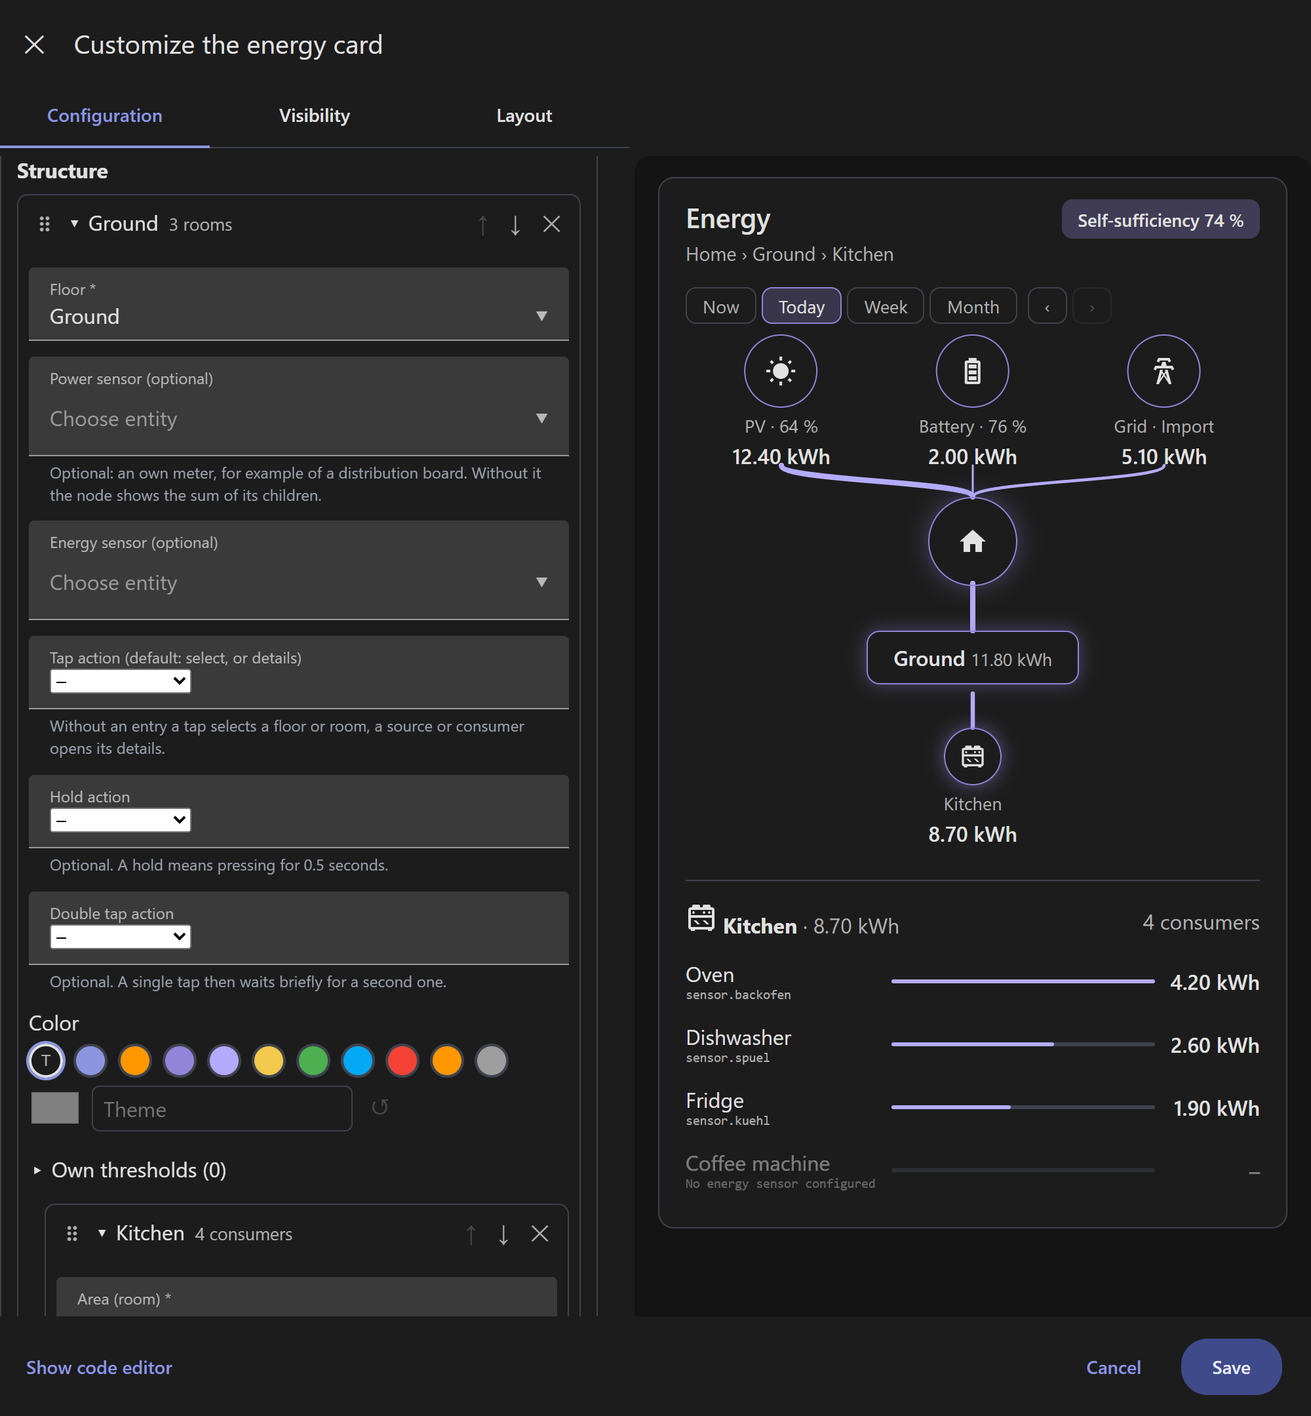
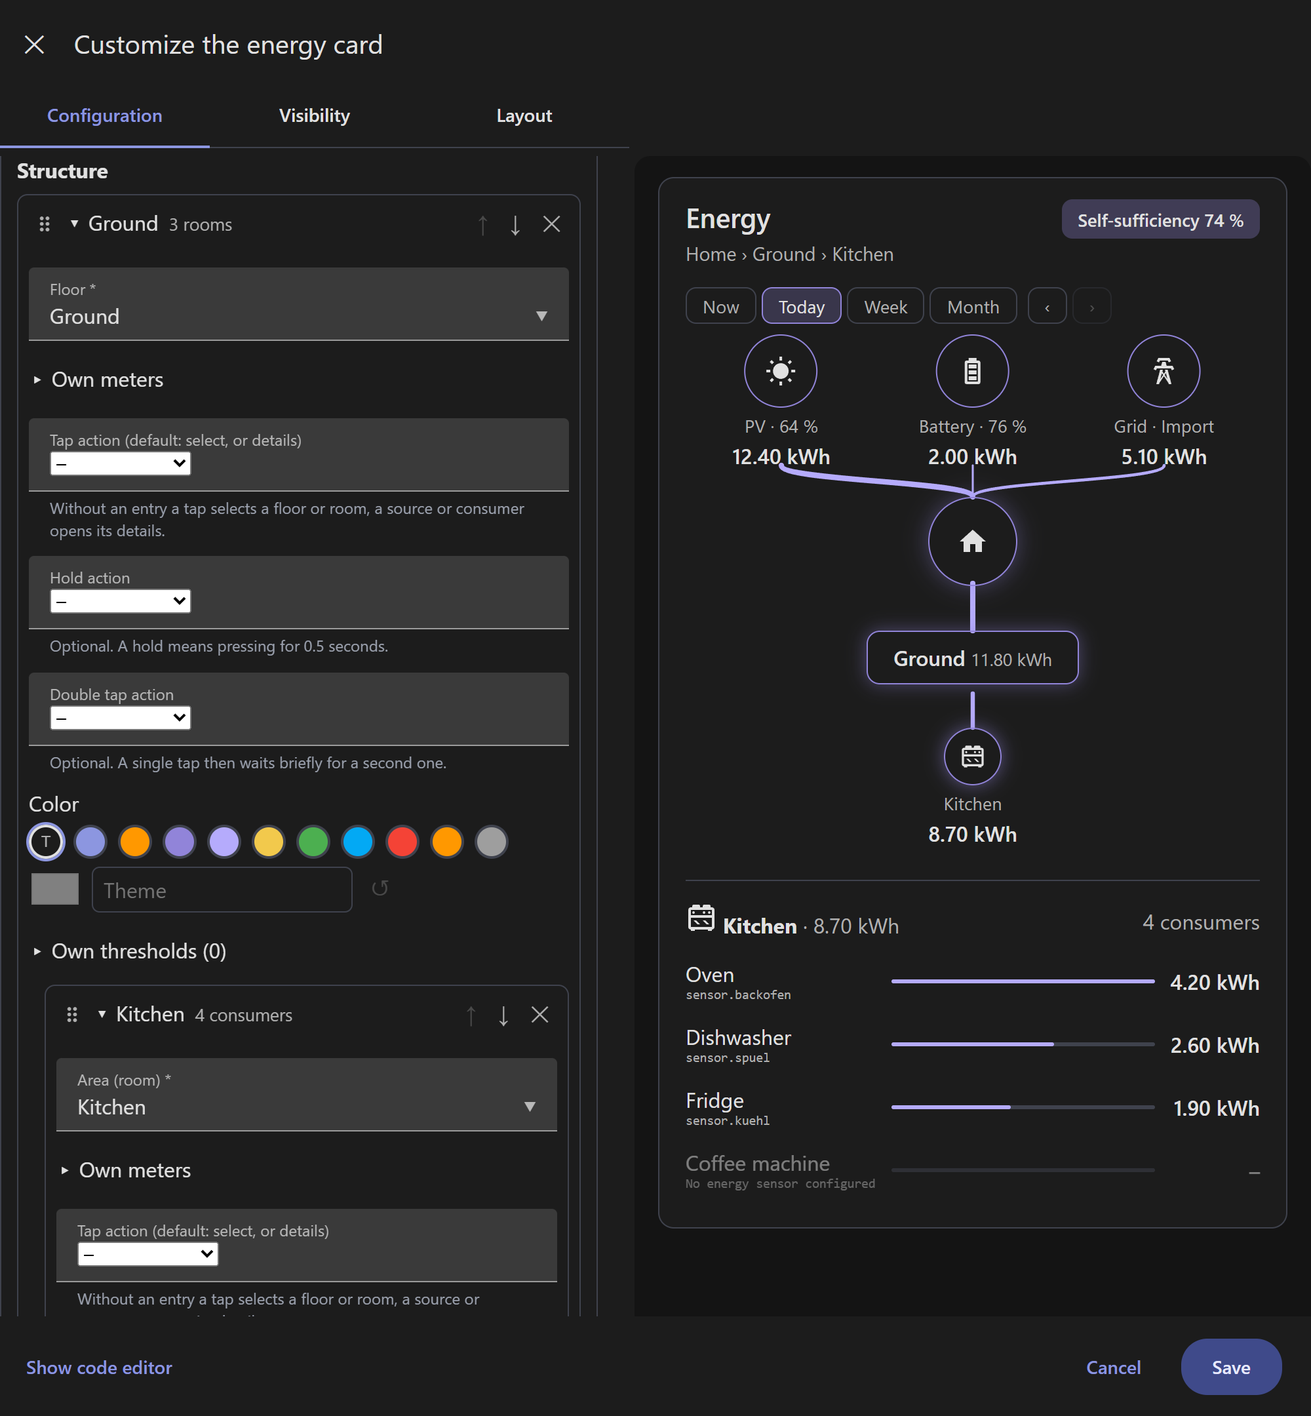
Editor: collapsible sections for sensors, switch and own meters

Changed region(s): [[0.0, 0.2481, 0.434, 0.9306]]

diff --git a/src/editor/card-editor.ts b/src/editor/card-editor.ts
@@ -21,6 +21,9 @@ import {
   COLOR_KEYS,
   THRESHOLD,
   PALETTE,
+  CONSUMER_SENSORS,
+  CONSUMER_SWITCH,
+  METER_PATHS,
   consumerFields,
   ENERGY_MODE,
   costsNeedGridCounter,
@@ -461,6 +464,25 @@ export class DetailedEnergyCardEditor extends LitElement {
       ${colors.map((f) => this._colorRow(ptr, f, getPath(obj, f.path)))}`;
   }
 
+  /** Collapsible group of fields; closed until the user opens it. */
+  private _section(key: string, title: string, body: TemplateResult): TemplateResult {
+    const open = this._open.has(key);
+    return html`<div class="own-thresholds">
+      <button class="title" aria-expanded=${open ? "true" : "false"} @click=${() => this._toggleOpen(key)}>
+        ${open ? "▾" : "▸"} ${title}
+      </button>
+      ${open ? body : nothing}
+    </div>`;
+  }
+
+  /** The form of an element with the meter sensors in a collapsible section (floors, rooms). */
+  private _meterForm(ptr: Pointer, fields: Field[]): TemplateResult {
+    const rest = fields.filter((f) => !METER_PATHS.includes(f.path));
+    const meters = fields.filter((f) => METER_PATHS.includes(f.path));
+    const head = rest.slice(0, 1);
+    return html`${this._form(ptr, head)}${this._section(`${ptr.join(".")}.meters`, this._tr("section_meters"), this._form(ptr, meters))}${this._form(ptr, rest.slice(1))}`;
+  }
+
   /** Color picker + hex field + reset (an empty value falls back to the HA theme). */
   private _colorRow(ptr: Pointer, f: Field, value: unknown): TemplateResult {
     const text = typeof value === "string" ? value : "";
@@ -709,10 +731,13 @@ export class DetailedEnergyCardEditor extends LitElement {
       <h3>${this._tr("section_consumers", consumers.length)}</h3>
       ${consumers.map((c: { entity?: string; energy_entity?: string }, i: number) => {
         const ptr: Pointer = [...roomPtr, "consumers", i];
+        const fields = consumerFields(consumerEntitiesExcept(this._config, ptr));
+        const pick = (paths: string[]) => fields.filter((f) => paths.includes(f.path));
+        const key = ptr.join(".");
         return html`<div class="item" @dragover=${(e: DragEvent) => this._onOver(e, [...roomPtr, "consumers"])} @drop=${(e: DragEvent) => this._onDrop(e, [...roomPtr, "consumers"], i)}>
           <div class="head">
             ${this._handle([...roomPtr, "consumers"], i)}
-            <div class="title" style="flex:1">${this._form(ptr, consumerFields(consumerEntitiesExcept(this._config, ptr)))}</div>
+            <div class="title" style="flex:1">${this._form(ptr, fields.filter((f) => f.path === "name"))}</div>
             <button class="icon" title=${this._tr("move_up")} aria-label=${this._tr("move_up")} ?disabled=${i === 0}
               @click=${() => this._update([...roomPtr, "consumers"], (l) => moveItem(l, i, -1))}>↑</button>
             <button class="icon" title=${this._tr("move_down")} aria-label=${this._tr("move_down")} ?disabled=${i === consumers.length - 1}
@@ -720,6 +745,9 @@ export class DetailedEnergyCardEditor extends LitElement {
             <button class="icon" title=${this._tr("remove")} aria-label=${this._tr("remove")}
               @click=${() => this._update([...roomPtr, "consumers"], (l) => removeItem(l, i))}>✕</button>
           </div>
+          ${this._section(`${key}.sensors`, this._tr("section_sensors"), this._form(ptr, pick(CONSUMER_SENSORS)))}
+          ${this._section(`${key}.switch`, this._tr("section_switch"), this._form(ptr, pick(CONSUMER_SWITCH)))}
+          ${this._form(ptr, fields.filter((f) => ![...CONSUMER_SENSORS, ...CONSUMER_SWITCH, "name"].includes(f.path)))}
           ${!c?.entity && !c?.energy_entity ? html`<div class="warn">⚠ ${this._tr("consumer_no_sensor")}</div>` : nothing}
           ${this._elementThresholds(ptr, "consumer")}
         </div>`;
@@ -741,7 +769,7 @@ export class DetailedEnergyCardEditor extends LitElement {
         return html`<div class="item ${nested ? "nested" : ""}" @dragover=${(e: DragEvent) => this._onOver(e, listPtr)} @drop=${(e: DragEvent) => this._onDrop(e, listPtr, i)}>
           ${this._itemHead(key, this._areaName(r.area_id), this._tr("count_consumers", r.consumers?.length ?? 0), ptr, i, rooms.length)}
           ${this._open.has(key)
-            ? html`${this._form(ptr, roomFields(this._areaOptions(floorId, r.area_id), consumerEntitiesExcept(this._config, ptr)))}${this._elementThresholds(ptr, "room")}${this._renderConsumers(ptr)}`
+            ? html`${this._meterForm(ptr, roomFields(this._areaOptions(floorId, r.area_id), consumerEntitiesExcept(this._config, ptr)))}${this._elementThresholds(ptr, "room")}${this._renderConsumers(ptr)}`
             : nothing}
         </div>`;
       })}
@@ -781,7 +809,7 @@ export class DetailedEnergyCardEditor extends LitElement {
                 return html`<div class="item" @dragover=${(e: DragEvent) => this._onOver(e, ["floors"])} @drop=${(e: DragEvent) => this._onDrop(e, ["floors"], i)}>
                   ${this._itemHead(key, this._floorName(f.floor_id), this._tr("count_rooms", f.rooms?.length ?? 0), ptr, i, floors.length)}
                   ${this._open.has(key)
-                    ? html`${this._form(ptr, floorFields(this._floorChoices(f.floor_id), consumerEntitiesExcept(this._config, ptr)))}${this._elementThresholds(ptr, "floor")}${this._renderRooms([...ptr, "rooms"], true, f.floor_id)}`
+                    ? html`${this._meterForm(ptr, floorFields(this._floorChoices(f.floor_id), consumerEntitiesExcept(this._config, ptr)))}${this._elementThresholds(ptr, "floor")}${this._renderRooms([...ptr, "rooms"], true, f.floor_id)}`
                     : nothing}
                 </div>`;
               })}

diff --git a/src/editor/schema.ts b/src/editor/schema.ts
@@ -323,6 +323,7 @@ export const roomFields = (choices: Choice[] = [], exclude: string[] = []): Fiel
 
 /** Consumer sensors: power and energy sensors that are not yet assigned to another consumer. */
 export const consumerFields = (exclude: string[] = []): Field[] => [
+  { path: "name", selector: text, label: "field_name_optional" },
   {
     path: "entity",
     selector: { entity: { domain: "sensor", device_class: "power", exclude_entities: exclude } },
@@ -337,13 +338,17 @@ export const consumerFields = (exclude: string[] = []): Field[] => [
     check: "energy",
     help: "help_consumer_energy",
   },
-  { path: "name", selector: text, label: "field_name_optional" },
   { path: "switch_entity", selector: { entity: { domain: ["switch", "input_boolean", "light", "fan"] } }, label: "field_switch_entity" },
   { path: "confirm_switch", selector: { boolean: {} }, label: "field_confirm_switch", default: false, when: (c: any) => !!c?.switch_entity },
   ...actionFields,
 ];
 
 export const CONSUMER: Field[] = consumerFields();
+
+/** Fields the editor puts into collapsible sections instead of showing them directly. */
+export const CONSUMER_SENSORS = ["entity", "energy_entity"];
+export const CONSUMER_SWITCH = ["switch_entity", "confirm_switch"];
+export const METER_PATHS = ["entity", "energy_entity"];
 
 /** Builds the ha-form schema for the fields visible for `obj`. */
 export function toSchema(fields: Field[], obj: unknown, tr: Tr) {

diff --git a/e2e/card.spec.ts b/e2e/card.spec.ts
@@ -1105,6 +1105,22 @@ test.describe("editor", () => {
     await expect(help.filter({ hasText: "Ansichten" }).first()).toBeVisible();
   });
 
+  test("sensors, switch and own meters are collapsed until opened", async ({ page }) => {
+    await page.goto("/dev/index.html?editor=floors");
+    const ed = page.locator("detailed-energy-card-editor");
+    // open the first floor and its first room
+    await ed.locator("section").last().locator(".item > .head button.title").first().click();
+    await expect(ed.locator("button.title", { hasText: "Eigene Zähler" }).first()).toHaveAttribute("aria-expanded", "false");
+    await ed.locator(".item.nested > .head button.title").first().click();
+    const sensors = ed.locator("button.title", { hasText: /^\s*[▸▾] Sensoren\s*$/ }).first();
+    const sw = ed.locator("button.title", { hasText: "Schalter des Verbrauchers" }).first();
+    await expect(sensors).toHaveAttribute("aria-expanded", "false");
+    await expect(sw).toHaveAttribute("aria-expanded", "false");
+    await sensors.click();
+    await expect(sensors).toHaveAttribute("aria-expanded", "true");
+    await expect(sw).toHaveAttribute("aria-expanded", "false");
+  });
+
   test("shows no hint when the card has an energy sensor", async ({ page }) => {
     await page.goto("/dev/index.html?editor=energy");
     await expect(page.locator("detailed-energy-card-editor h3").first()).toBeVisible();

diff --git a/test/editor.test.ts b/test/editor.test.ts
@@ -215,14 +215,14 @@ describe("consumers are unique", () => {
       ],
     };
     expect(consumerEntitiesExcept(e, ["rooms", 0, "consumers", 0]).sort()).toEqual(["sensor.e2", "sensor.p2"]);
-    const [, energyField] = consumerFields(["sensor.e2"]);
+    const [, , energyField] = consumerFields(["sensor.e2"]);
     expect(energyField.selector).toEqual({ entity: { domain: "sensor", device_class: "energy", exclude_entities: ["sensor.e2"] } });
     expect(findDuplicates({ ...e, rooms: [e.rooms![0], { area_id: "b", name: "B", consumers: [{ entity: "sensor.p2", energy_entity: "sensor.e1" }] }] })).toEqual([
       { entity: "sensor.e1", places: ["a", "B"] },
     ]);
   });
   it("hands the taken sensors to the entity picker as excluded", () => {
-    const [entity] = consumerFields(["sensor.two"]);
+    const [, entity] = consumerFields(["sensor.two"]);
     expect(entity.selector).toEqual({ entity: { domain: "sensor", device_class: "power", exclude_entities: ["sensor.two"] } });
   });
   it("rejects an energy sensor that is assigned twice", () => {

diff --git a/src/localize/editor.ts b/src/localize/editor.ts
@@ -152,6 +152,9 @@ const de = {
   thr_copy_parent: "Von der übergeordneten Liste übernehmen",
   thr_factor: "Faktor",
   thr_scale: "Grenzen skalieren",
+  section_sensors: "Sensoren",
+  section_switch: "Schalter des Verbrauchers",
+  section_meters: "Eigene Zähler",
   thr_own: "Eigene Schwellwerte ({0})",
   thr_own_hint: "Ersetzt für dieses Element die Werte der Ebene.",
   field_thr_width: "Strichstärke (px, leer = automatisch)",
@@ -362,6 +365,9 @@ const en: typeof de = {
   thr_copy_parent: "Copy from the parent list",
   thr_factor: "Factor",
   thr_scale: "Scale limits",
+  section_sensors: "Sensors",
+  section_switch: "Switch of the consumer",
+  section_meters: "Own meters",
   thr_own: "Own thresholds ({0})",
   thr_own_hint: "Replaces the values of the level for this element.",
   field_thr_width: "Line width (px, empty = automatic)",

diff --git a/README.md b/README.md
@@ -27,15 +27,15 @@ Home → floor → room → consumers. Click a floor to show its rooms (all of t
 
 | With floors | Without floors |
 | --- | --- |
-| ![Card with floors](https://raw.githubusercontent.com/stacknoise/detailed-energy-card/main/docs/screenshots/card-with-floors.png?v=3) | ![Card without floors](https://raw.githubusercontent.com/stacknoise/detailed-energy-card/main/docs/screenshots/card-without-floors.png?v=3) |
+| ![Card with floors](https://raw.githubusercontent.com/stacknoise/detailed-energy-card/main/docs/screenshots/card-with-floors.png?v=4) | ![Card without floors](https://raw.githubusercontent.com/stacknoise/detailed-energy-card/main/docs/screenshots/card-without-floors.png?v=4) |
 
 | All rooms of a floor selected | Many rooms wrapped into two rows |
 | --- | --- |
-| ![All rooms selected](https://raw.githubusercontent.com/stacknoise/detailed-energy-card/main/docs/screenshots/card-all-rooms.png?v=3) | ![Many rooms wrapped](https://raw.githubusercontent.com/stacknoise/detailed-energy-card/main/docs/screenshots/card-many-rooms-wrapped.png?v=3) |
+| ![All rooms selected](https://raw.githubusercontent.com/stacknoise/detailed-energy-card/main/docs/screenshots/card-all-rooms.png?v=4) | ![Many rooms wrapped](https://raw.githubusercontent.com/stacknoise/detailed-energy-card/main/docs/screenshots/card-many-rooms-wrapped.png?v=4) |
 
 | Thresholds per level | Compact view at the width of a phone |
 | --- | --- |
-| ![Card with thresholds per level](https://raw.githubusercontent.com/stacknoise/detailed-energy-card/main/docs/screenshots/card-thresholds.png?v=3) | ![Compact view: sources, home and floors in small circles](https://raw.githubusercontent.com/stacknoise/detailed-energy-card/main/docs/screenshots/card-compact.png?v=3) |
+| ![Card with thresholds per level](https://raw.githubusercontent.com/stacknoise/detailed-energy-card/main/docs/screenshots/card-thresholds.png?v=4) | ![Compact view: sources, home and floors in small circles](https://raw.githubusercontent.com/stacknoise/detailed-energy-card/main/docs/screenshots/card-compact.png?v=4) |
 
 Thresholds can differ per level, and a single element can have its own list: here the floor and room lines have their own limits and widths, and the oven (green until 1 kW) has its own thresholds instead of the consumer level's. The compact view shows only sources, home and floors.
 
@@ -43,15 +43,15 @@ Thresholds can differ per level, and a single element can have its own list: her
 
 | Energy mode | Own meters of floors and rooms |
 | --- | --- |
-| ![Card in the energy mode](https://raw.githubusercontent.com/stacknoise/detailed-energy-card/main/docs/screenshots/card-energy.png?v=3) | ![Floors and rooms with their own meter](https://raw.githubusercontent.com/stacknoise/detailed-energy-card/main/docs/screenshots/card-meters.png?v=3) |
+| ![Card in the energy mode](https://raw.githubusercontent.com/stacknoise/detailed-energy-card/main/docs/screenshots/card-energy.png?v=4) | ![Floors and rooms with their own meter](https://raw.githubusercontent.com/stacknoise/detailed-energy-card/main/docs/screenshots/card-meters.png?v=4) |
 
 | Second value: power now, energy of today | Feed-in, charging and self-consumption |
 | --- | --- |
-| ![Power now with the energy of today below](https://raw.githubusercontent.com/stacknoise/detailed-energy-card/main/docs/screenshots/card-secondary.png?v=3) | ![Feed-in and battery charging in the energy mode](https://raw.githubusercontent.com/stacknoise/detailed-energy-card/main/docs/screenshots/card-feedin.png?v=3) |
+| ![Power now with the energy of today below](https://raw.githubusercontent.com/stacknoise/detailed-energy-card/main/docs/screenshots/card-secondary.png?v=4) | ![Feed-in and battery charging in the energy mode](https://raw.githubusercontent.com/stacknoise/detailed-energy-card/main/docs/screenshots/card-feedin.png?v=4) |
 
 | Costs from a dynamic price | Base load and consumers that run all the time |
 | --- | --- |
-| ![Costs badge and the costs of every node](https://raw.githubusercontent.com/stacknoise/detailed-energy-card/main/docs/screenshots/card-costs.png?v=3) | ![Base load badge and the infinity symbol at the fridge](https://raw.githubusercontent.com/stacknoise/detailed-energy-card/main/docs/screenshots/card-standby.png?v=3) |
+| ![Costs badge and the costs of every node](https://raw.githubusercontent.com/stacknoise/detailed-energy-card/main/docs/screenshots/card-costs.png?v=4) | ![Base load badge and the infinity symbol at the fridge](https://raw.githubusercontent.com/stacknoise/detailed-energy-card/main/docs/screenshots/card-standby.png?v=4) |
 
 The energy mode shows how much each part used today, this week or this month; the lines show the share of the consumption, and the coffee machine has no energy sensor. Floors and rooms can have their own meter (small meter icon): here the ground floor (distribution board), the kitchen and the hall are metered, and the kitchen meter measures 0.4 kWh more than the kitchen's consumers. With `options.secondary_value: auto` every node shows the energy of today below its power (and the power now in the energy mode). With counters for both directions the grid and the battery show what went back (feed-in 3.8 kWh, charged 2.4 kWh), and the *Self-consumption* badge says how much of the solar energy stayed in the home.
 
@@ -59,11 +59,11 @@ The energy mode shows how much each part used today, this week or this month; th
 
 | Timeline of the day | Sankey diagram |
 | --- | --- |
-| ![Timeline of today stacked by room, yesterday dashed](https://raw.githubusercontent.com/stacknoise/detailed-energy-card/main/docs/screenshots/card-timeline.png?v=3) | ![Sankey diagram of sources, floors, rooms and consumers with feed-in and charging below](https://raw.githubusercontent.com/stacknoise/detailed-energy-card/main/docs/screenshots/card-sankey.png?v=3) |
+| ![Timeline of today stacked by room, yesterday dashed](https://raw.githubusercontent.com/stacknoise/detailed-energy-card/main/docs/screenshots/card-timeline.png?v=4) | ![Sankey diagram of sources, floors, rooms and consumers with feed-in and charging below](https://raw.githubusercontent.com/stacknoise/detailed-energy-card/main/docs/screenshots/card-sankey.png?v=4) |
 
 | Heatmap card | Switches in the consumer list |
 | --- | --- |
-| ![Heatmap card: a row per day, a column per hour](https://raw.githubusercontent.com/stacknoise/detailed-energy-card/main/docs/screenshots/card-heatmap.png?v=3) | ![A toggle at the end of the row of a consumer with a switch](https://raw.githubusercontent.com/stacknoise/detailed-energy-card/main/docs/screenshots/card-actions.png?v=3) |
+| ![Heatmap card: a row per day, a column per hour](https://raw.githubusercontent.com/stacknoise/detailed-energy-card/main/docs/screenshots/card-heatmap.png?v=4) | ![A toggle at the end of the row of a consumer with a switch](https://raw.githubusercontent.com/stacknoise/detailed-energy-card/main/docs/screenshots/card-actions.png?v=4) |
 
 The card screenshots are rendered from mock data with `npm run screenshots`, in English (`SHOT_LANG=de` renders them in German).
 
@@ -73,15 +73,15 @@ Everything can be configured without YAML. Floors and rooms are picked from the 
 
 | General and options | Thresholds per level |
 | --- | --- |
-| ![Editor: general](https://raw.githubusercontent.com/stacknoise/detailed-energy-card/main/docs/screenshots/editor-general.png?v=3) | ![Editor: thresholds](https://raw.githubusercontent.com/stacknoise/detailed-energy-card/main/docs/screenshots/editor-thresholds.png?v=3) |
+| ![Editor: general](https://raw.githubusercontent.com/stacknoise/detailed-energy-card/main/docs/screenshots/editor-general.png?v=4) | ![Editor: thresholds](https://raw.githubusercontent.com/stacknoise/detailed-energy-card/main/docs/screenshots/editor-thresholds.png?v=4) |
 
 | Energy sensors | Structure with energy sensors |
 | --- | --- |
-| ![Editor: energy sensors](https://raw.githubusercontent.com/stacknoise/detailed-energy-card/main/docs/screenshots/editor-energy.png?v=3) | ![Editor: structure](https://raw.githubusercontent.com/stacknoise/detailed-energy-card/main/docs/screenshots/editor-structure.png?v=3) |
+| ![Editor: energy sensors](https://raw.githubusercontent.com/stacknoise/detailed-energy-card/main/docs/screenshots/editor-energy.png?v=4) | ![Editor: structure](https://raw.githubusercontent.com/stacknoise/detailed-energy-card/main/docs/screenshots/editor-structure.png?v=4) |
 
 **Import from the Energy dashboard:** the button *Import from Energy dashboard* at the top of the editor proposes the structure of the card from what you already set up in Home Assistant's Energy dashboard, in three steps: *Sources* (grid, solar and battery with their counters, and a power sensor each: the one of the dashboard, or the only one at the same device, otherwise you choose), *Structure* (floors, rooms and devices by their areas; tick or untick on every level, rename a device, put it into another room; devices without an area are off by default, external statistics are shown but cannot be taken over) and *Preview* (a live card, *Now* or *Today*). A device that is part of another one (`included_in_stat`) sits under its parent: the parent becomes the meter of the room when the whole family is in that room, otherwise its parts are off by default, so nothing is counted twice. Devices need no power sensor in the card any more: a consumer with only an energy counter shows in the energy mode and is greyed out in the mode *Now*. When the card already has a structure you choose: *Replace* (new sources, floors and rooms; title, colors and options stay) or *Add what is missing* (existing entries stay as they are, they only get the energy counter the dashboard knows for their power sensor). Gas and water are not electricity and are left out. A device that the dashboard also lists as a "grid" source (a common way to give a plug a price) is offered as a device only, so it is not counted twice. Areas without a floor can only be shown when no floors are used.
 
-![Import wizard: structure from the Energy dashboard](https://raw.githubusercontent.com/stacknoise/detailed-energy-card/main/docs/screenshots/editor-import.png?v=3)
+![Import wizard: structure from the Energy dashboard](https://raw.githubusercontent.com/stacknoise/detailed-energy-card/main/docs/screenshots/editor-import.png?v=4)
 
 The editor screenshots are rendered from demo data with `npm run screenshots`, in English too. The form fields are drawn by a stand-in for Home Assistant's form (`dev/ha-form-stub.js`), so they look like the real ones but are not taken in a real Home Assistant.
 

diff --git a/CHANGELOG.md b/CHANGELOG.md
@@ -2,11 +2,15 @@
 
 ## Unreleased
 
+### Changed
+
+- Editor: a consumer starts with its name. The two sensors (*Sensors*) and the switch (*Switch of the consumer*) sit in collapsible sections, like the own thresholds. The own meters of a floor or a room (*Own meters*) are collapsible too. All of them are closed when the editor opens.
+
 ### Docs
 
 - The screenshots of the README are rendered in English (demo data, titles and editor in English; `SHOT_LANG=de npm run screenshots` renders them German). The frame of the card images is a little higher (910 px) for the longer English texts.
 - README, section *Options*: the first column of every table shows the text of the field in the editor (English), next to the YAML key.
-- README: the image links carry `?v=3`, so that GitHub and HACS show the English screenshots instead of cached German ones. Raise the number when the screenshots change.
+- README: the image links carry `?v=4`, so that GitHub and HACS show the English screenshots instead of cached German ones. Raise the number when the screenshots change.
 - The last two German screenshots (`card-without-floors`, `card-many-rooms-wrapped`) are English now; all titles of the dev scenarios are English for `?lang=en`.
 - README: the section *Install (HACS)* is the first section, before the preview.
 
